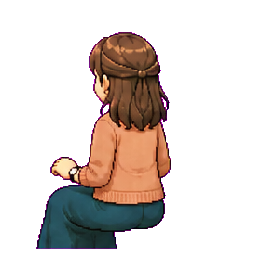
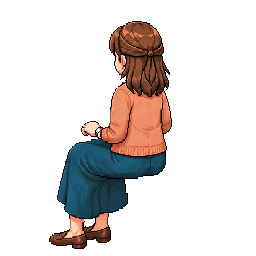
fix: paint the chair back over the occupant so hips stop poking through
Reported from the build: the pose looks right for about a second after sitting, then the
hips break out through the seat. Two causes, both in depth.

The occupant only earned its stacking priority once the phase reached Working, so during the
sit-down transition it sorted behind the chair and afterwards in front of it - the visible
flip. IsOccupyingSeat now covers the whole claim, from sitting down to standing up.

The deeper cause is that the chair had no foreground layer. The camera looks at the
occupant's back, so the backrest and near armrest are between the body and the camera and
have to be painted over it; with the whole chair behind, a body correctly seated on the
cushion can only read as sitting through it. office_swivel_chair_front_v3.png is now wired
into the catalog and the footprint sort places it above the occupant: chair base, occupant,
chair back. Foreground layers are ordered by the same sort as everything else rather than by
a hand written offset.

Also takes Codex's regenerated mother seating sheets. The old frame 0 was a 5% enlarged
one-off whose skirt was clipped at the canvas edge with no legs below it; all six frames now
share one bbox and draw her legs and shoes. Her seat registration point is re-measured
against the new art at (131,62) - the raw anatomical contact at (149,75) seats her off the
front left corner of the cushion - and the approved source SHA is updated with it.
[…]

Changed region(s): [[0.125, 0.0625, 0.6875, 1.0]]

diff --git a/Assets/FamilyCompany/Presentation.Unity/OfficeRuntime/OfficeRuntimeDepthSorter.cs b/Assets/FamilyCompany/Presentation.Unity/OfficeRuntime/OfficeRuntimeDepthSorter.cs
@@ -17,7 +17,21 @@ namespace FamilyCompany.Presentation.Unity.OfficeRuntime
     public sealed class OfficeRuntimeDepthSorter
     {
         private const string FurniturePrefix = "f:";
+        private const string FrontPrefix = "n:";
         private const string ActorPrefix = "a:";
+
+        /// <summary>Chair base under the occupant.</summary>
+        private const int BasePriority = 0;
+
+        /// <summary>The person on the seat.</summary>
+        private const int OccupantPriority = 1;
+
+        /// <summary>
+        /// Backrest and near armrest. The camera looks at the occupant's back, so the parts of the
+        /// chair their back rests against are between them and the camera and have to be painted
+        /// over the body - otherwise the hips read as poking through the seat.
+        /// </summary>
+        private const int FrontPriority = 2;
 
         private readonly OfficeGrid _grid;
         private readonly OfficeGridTilemapPresenter _presenter;
@@ -45,12 +59,23 @@ namespace FamilyCompany.Presentation.Unity.OfficeRuntime
 
             foreach (PlacedOfficeFurniture furniture in _grid.Furniture)
             {
+                int maxX = furniture.Origin.X + furniture.Width - 1;
+                int maxY = furniture.Origin.Y + furniture.Height - 1;
                 _items.Add(new OfficeDepthItem(
                     FurniturePrefix + furniture.FurnitureId,
                     furniture.Origin.X,
                     furniture.Origin.Y,
-                    furniture.Origin.X + furniture.Width - 1,
-                    furniture.Origin.Y + furniture.Height - 1));
+                    maxX,
+                    maxY,
+                    BasePriority));
+                if (_furniturePresenter.HasEnabledFrontOverlay(furniture.FurnitureId))
+                    _items.Add(new OfficeDepthItem(
+                        FrontPrefix + furniture.FurnitureId,
+                        furniture.Origin.X,
+                        furniture.Origin.Y,
+                        maxX,
+                        maxY,
+                        FrontPriority));
             }
 
             if (actors != null)
@@ -66,7 +91,7 @@ namespace FamilyCompany.Presentation.Unity.OfficeRuntime
                         ActorPrefix + actor.AgentId,
                         cell.X,
                         cell.Y,
-                        actor.IsSeated ? 1 : 0));
+                        actor.IsOccupyingSeat ? OccupantPriority : BasePriority));
                     _actorRenderers[actor.AgentId] = renderer;
                 }
             }
@@ -77,8 +102,15 @@ namespace FamilyCompany.Presentation.Unity.OfficeRuntime
             {
                 if (entry.Key.StartsWith(FurniturePrefix, StringComparison.Ordinal))
                 {
-                    _furniturePresenter.ApplySortingOrder(
+                    _furniturePresenter.ApplyBaseSortingOrder(
                         entry.Key.Substring(FurniturePrefix.Length),
+                        entry.Value);
+                    continue;
+                }
+                if (entry.Key.StartsWith(FrontPrefix, StringComparison.Ordinal))
+                {
+                    _furniturePresenter.ApplyFrontSortingOrder(
+                        entry.Key.Substring(FrontPrefix.Length),
                         entry.Value);
                     continue;
                 }
@@ -90,7 +122,7 @@ namespace FamilyCompany.Presentation.Unity.OfficeRuntime
 
         private OfficeGridCoordinate ResolveActorCell(OfficeRuntimeAgent actor)
         {
-            if (actor.IsSeated && actor.ActiveSeatId.Length > 0)
+            if (actor.IsOccupyingSeat && actor.ActiveSeatId.Length > 0)
             {
                 foreach (OfficeSeatSlot seat in _grid.SeatSlots)
                 {

diff --git a/Assets/FamilyCompany/Presentation.Unity/OfficeGrid/OfficeGridFurniturePresenter.cs b/Assets/FamilyCompany/Presentation.Unity/OfficeGrid/OfficeGridFurniturePresenter.cs
@@ -212,15 +212,39 @@ namespace FamilyCompany.Presentation.Unity.OfficeGridView
         }
 
         /// <summary>
-        /// Sets the order for one piece of furniture. The single owner of this is
+        /// True when this piece has a foreground layer that should be painted over an occupant -
+        /// the chair backrest and near armrest, which the camera sees in front of the seated body.
+        /// </summary>
+        public bool HasEnabledFrontOverlay(string furnitureId)
+        {
+            return _visuals.TryGetValue(furnitureId ?? string.Empty, out FurnitureVisual visual) &&
+                   visual.FrontRenderer != null &&
+                   visual.Definition.FrontOverlayWhenOccupied;
+        }
+
+        /// <summary>
+        /// Sets the order for the main body of one piece of furniture. The single owner of this is
         /// <see cref="OfficeRuntime.OfficeRuntimeDepthSorter"/>, which orders the whole office from
         /// its footprints once per frame.
         /// </summary>
-        public void ApplySortingOrder(string furnitureId, int sortingOrder)
+        public void ApplyBaseSortingOrder(string furnitureId, int sortingOrder)
         {
             if (!_visuals.TryGetValue(furnitureId ?? string.Empty, out FurnitureVisual visual)) return;
             visual.BaseRenderer.sortingOrder = sortingOrder;
-            if (visual.FrontRenderer != null) visual.FrontRenderer.sortingOrder = sortingOrder + 1;
+            if (visual.FrontRenderer != null && !visual.Definition.FrontOverlayWhenOccupied)
+            {
+                visual.FrontRenderer.enabled = false;
+                visual.FrontRenderer.sortingOrder = sortingOrder + 1;
+            }
+        }
+
+        /// <summary>Sets the order for the foreground layer, which the sorter keeps above occupants.</summary>
+        public void ApplyFrontSortingOrder(string furnitureId, int sortingOrder)
+        {
+            if (!_visuals.TryGetValue(furnitureId ?? string.Empty, out FurnitureVisual visual)) return;
+            if (visual.FrontRenderer == null) return;
+            visual.FrontRenderer.enabled = true;
+            visual.FrontRenderer.sortingOrder = sortingOrder;
         }
 
         public void ApplySeatOcclusion(OfficeSeatSlot seat, int characterSortingOrder)

diff --git a/Assets/FamilyCompany/Presentation.Unity/OfficeRuntime/OfficeRuntimeAgent.cs b/Assets/FamilyCompany/Presentation.Unity/OfficeRuntime/OfficeRuntimeAgent.cs
@@ -77,6 +77,19 @@ namespace FamilyCompany.Presentation.Unity.OfficeRuntime
         public bool HasAssignedTask => _assignedTaskId.Length > 0;
         public string AssignedTaskId => _assignedTaskId;
         public bool IsSeated => Phase == OfficeRuntimeAgentPhase.Working;
+
+        /// <summary>
+        /// True from the moment the seat is claimed until the actor has stepped back out of it.
+        /// Depth uses this rather than <see cref="IsSeated"/> so the body does not flip from behind
+        /// the chair to in front of it partway through sitting down.
+        /// </summary>
+        public bool IsOccupyingSeat =>
+            _seat != null &&
+            Phase != OfficeRuntimeAgentPhase.LeavingSeat &&
+            (Phase == OfficeRuntimeAgentPhase.SittingDown ||
+             Phase == OfficeRuntimeAgentPhase.Working ||
+             Phase == OfficeRuntimeAgentPhase.FinishingWork ||
+             Phase == OfficeRuntimeAgentPhase.StandingUp);
         public bool IsBusy => HasAssignedTask || Phase != OfficeRuntimeAgentPhase.Idle;
         public OfficeActivity CurrentActivity { get; private set; } = OfficeActivity.Break;
         public Vector2 Position => new Vector2(transform.position.x, transform.position.y);
@@ -718,7 +731,6 @@ namespace FamilyCompany.Presentation.Unity.OfficeRuntime
                         ResumeAutonomy();
                         return;
                     }
-                    ApplySeatedFloorPlacement();
                     Phase = OfficeRuntimeAgentPhase.SittingDown;
                     CurrentActivity = OfficeActivity.Work;
                     break;
